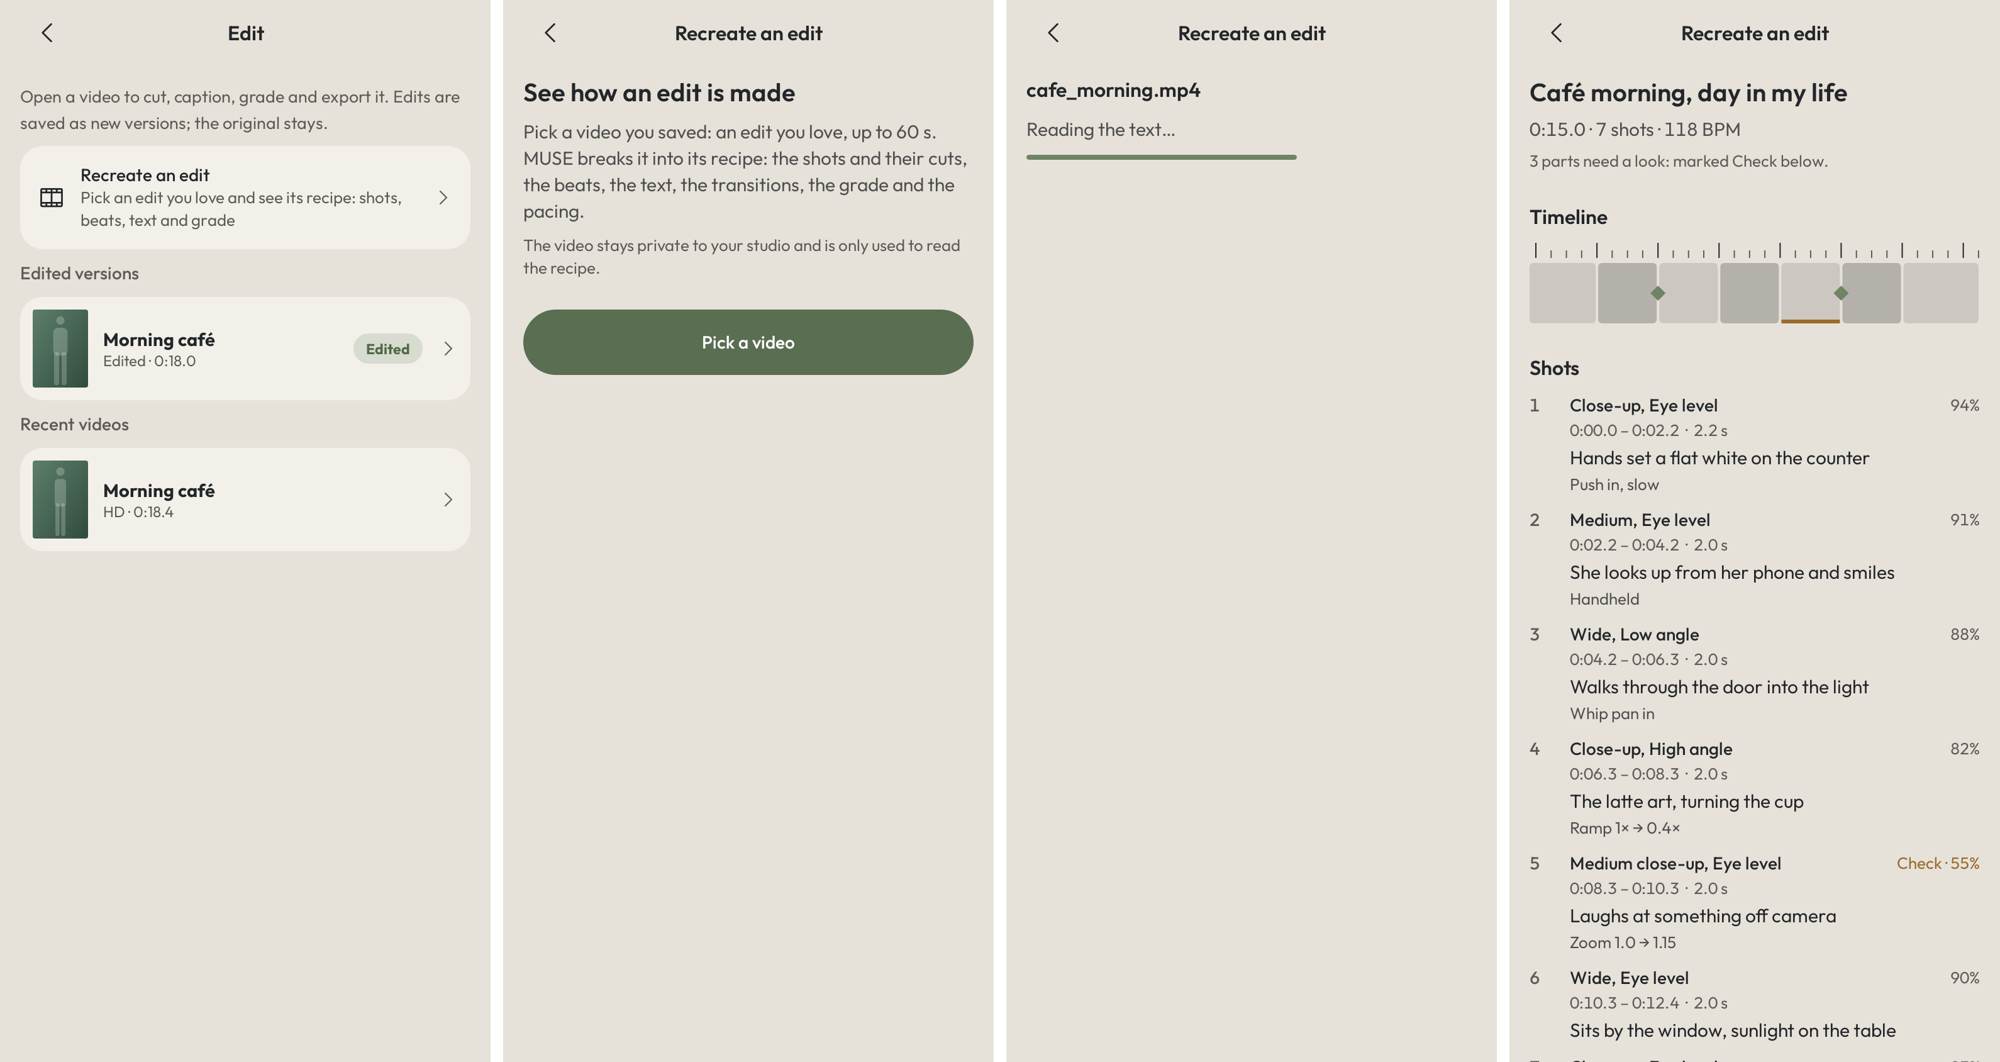
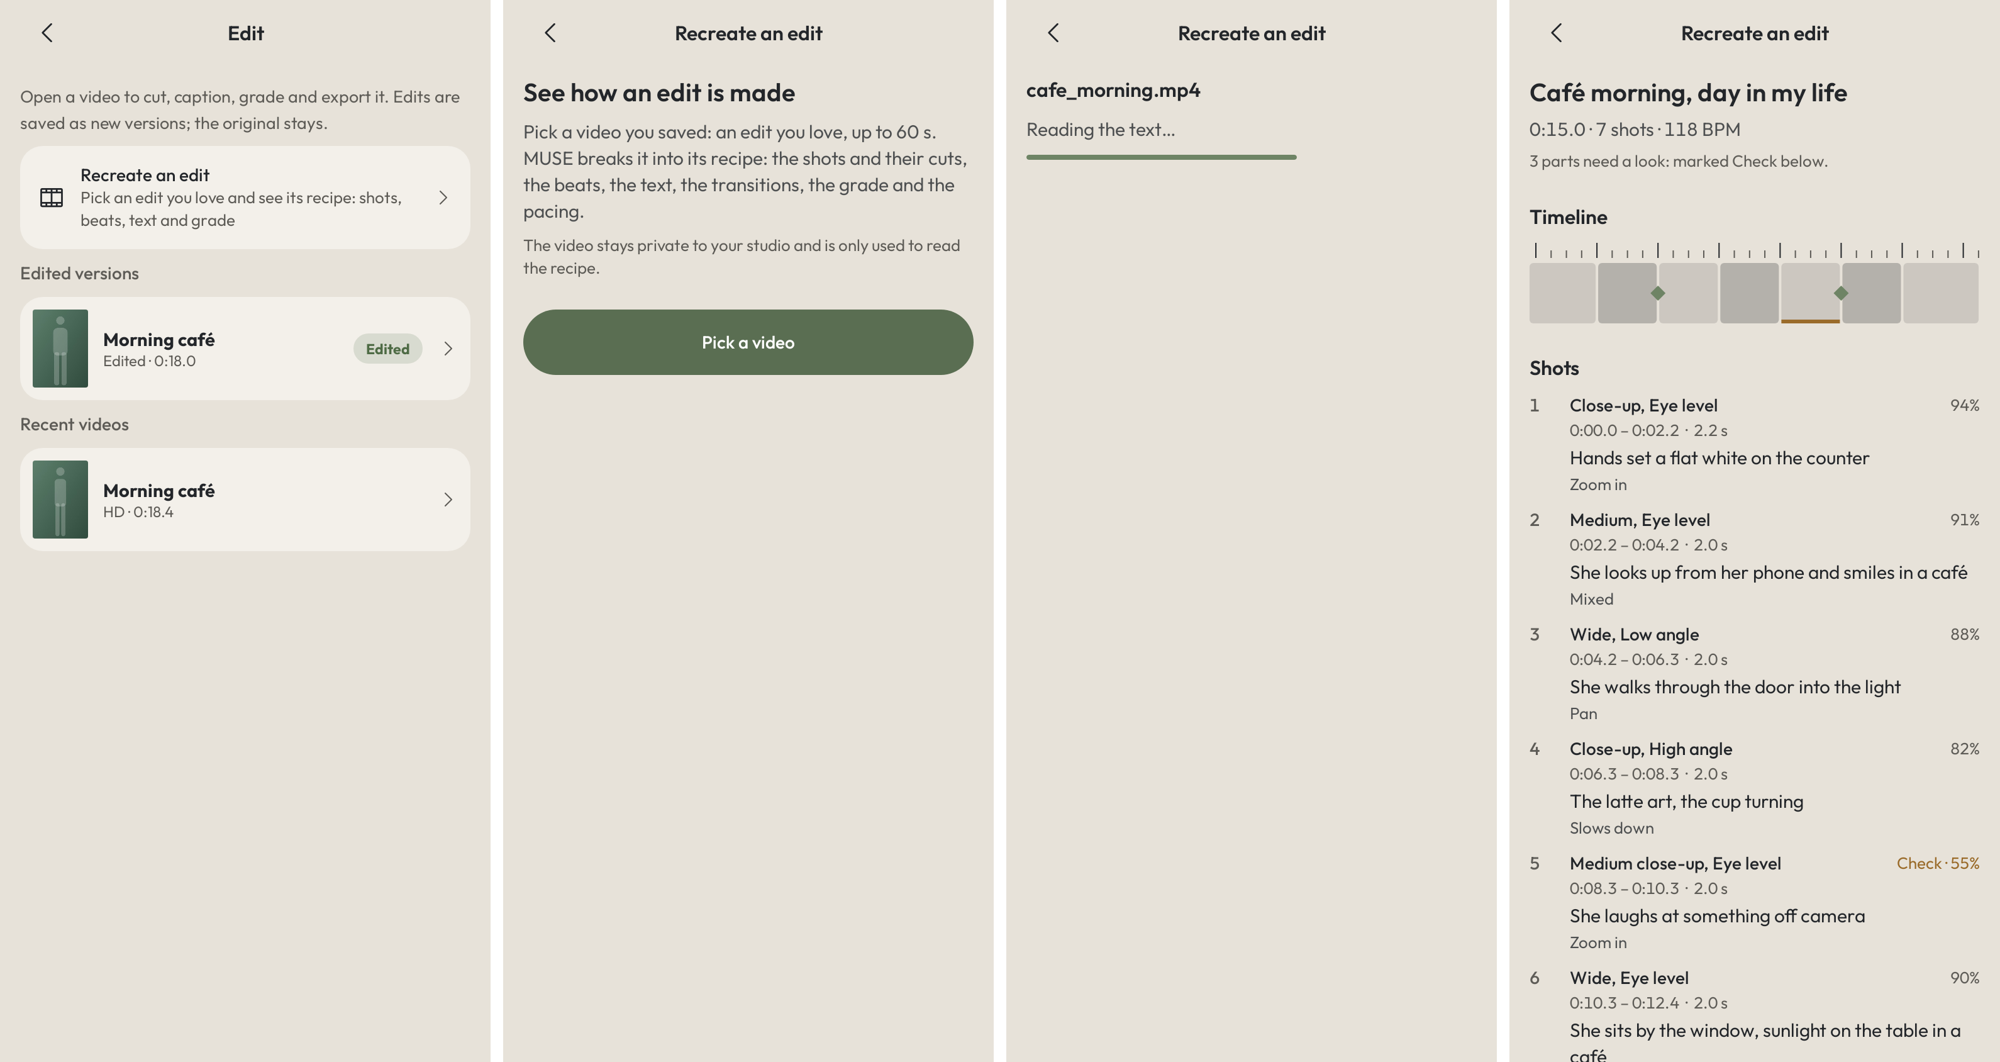
Recreate this edit (Android): screenshots and notes for the real flow on WS1's schema
Claude-Session: https://claude.ai/code/session_01Py2rxnSji59d98ivK5LDYD

diff --git a/plans/recreate-edit-android/README.md b/plans/recreate-edit-android/README.md
@@ -16,9 +16,11 @@ Per plans/recreate-edit.md (APPROVED), build phase 1: pick a reference and see i
 - On a tablet, the lower sections sit side by side in a centred column of 880 dp at most.
 
 **Data.**
-- `core/.../edit/Recipe.kt` holds the model and a lenient reader that follows the plan's field list.
-- WS1 owns the server `recipe` schema. When it lands, only `RecipeJson` and the screen's source change.
-- Until then the recipe is a stand-in (`FakeRecipes.cafeTrend()`), and the entry shows **in demo mode only**, so nobody sees a made-up recipe for their own video.
+- Recipes come from WS1's server (`plans/api.md` "Recreate this edit"): the video is uploaded with the editor's upload, `POST /v1/recreate/references {uploadId, name}` starts the analysis, and the app polls `GET …/{id}` (showing the server's step) until it is `ready` or `failed`.
+- `core/.../edit/Recipe.kt` reads `muse.recipe/1` into the view: ids become words ("cu" → "Close-up", "zoom_in" → "Zoom in"), unknown transitions are flagged, unread caption words say so, and a read pose shows "Pose read". It is tested on the server's own fixture (`core/src/test/resources/recipe-v1.json`, a copy of `server/api/test/fixtures/recipe-v1.json` at WS1's f5c06d7).
+- Claude's summary and the recipe's gaps ("Not recreated yet") show when present.
+- Demo mode runs the same flow on FakeMuseApi with `FakeRecipes.cafeTrendJson()`, in the same schema.
+- A server without these endpoints answers "This studio server can't read edits yet".
 
 **Next phases** (not built): cast and fill, assemble, the side-by-side compare, and the phone share target (waiting on the platform-rules check).
 
